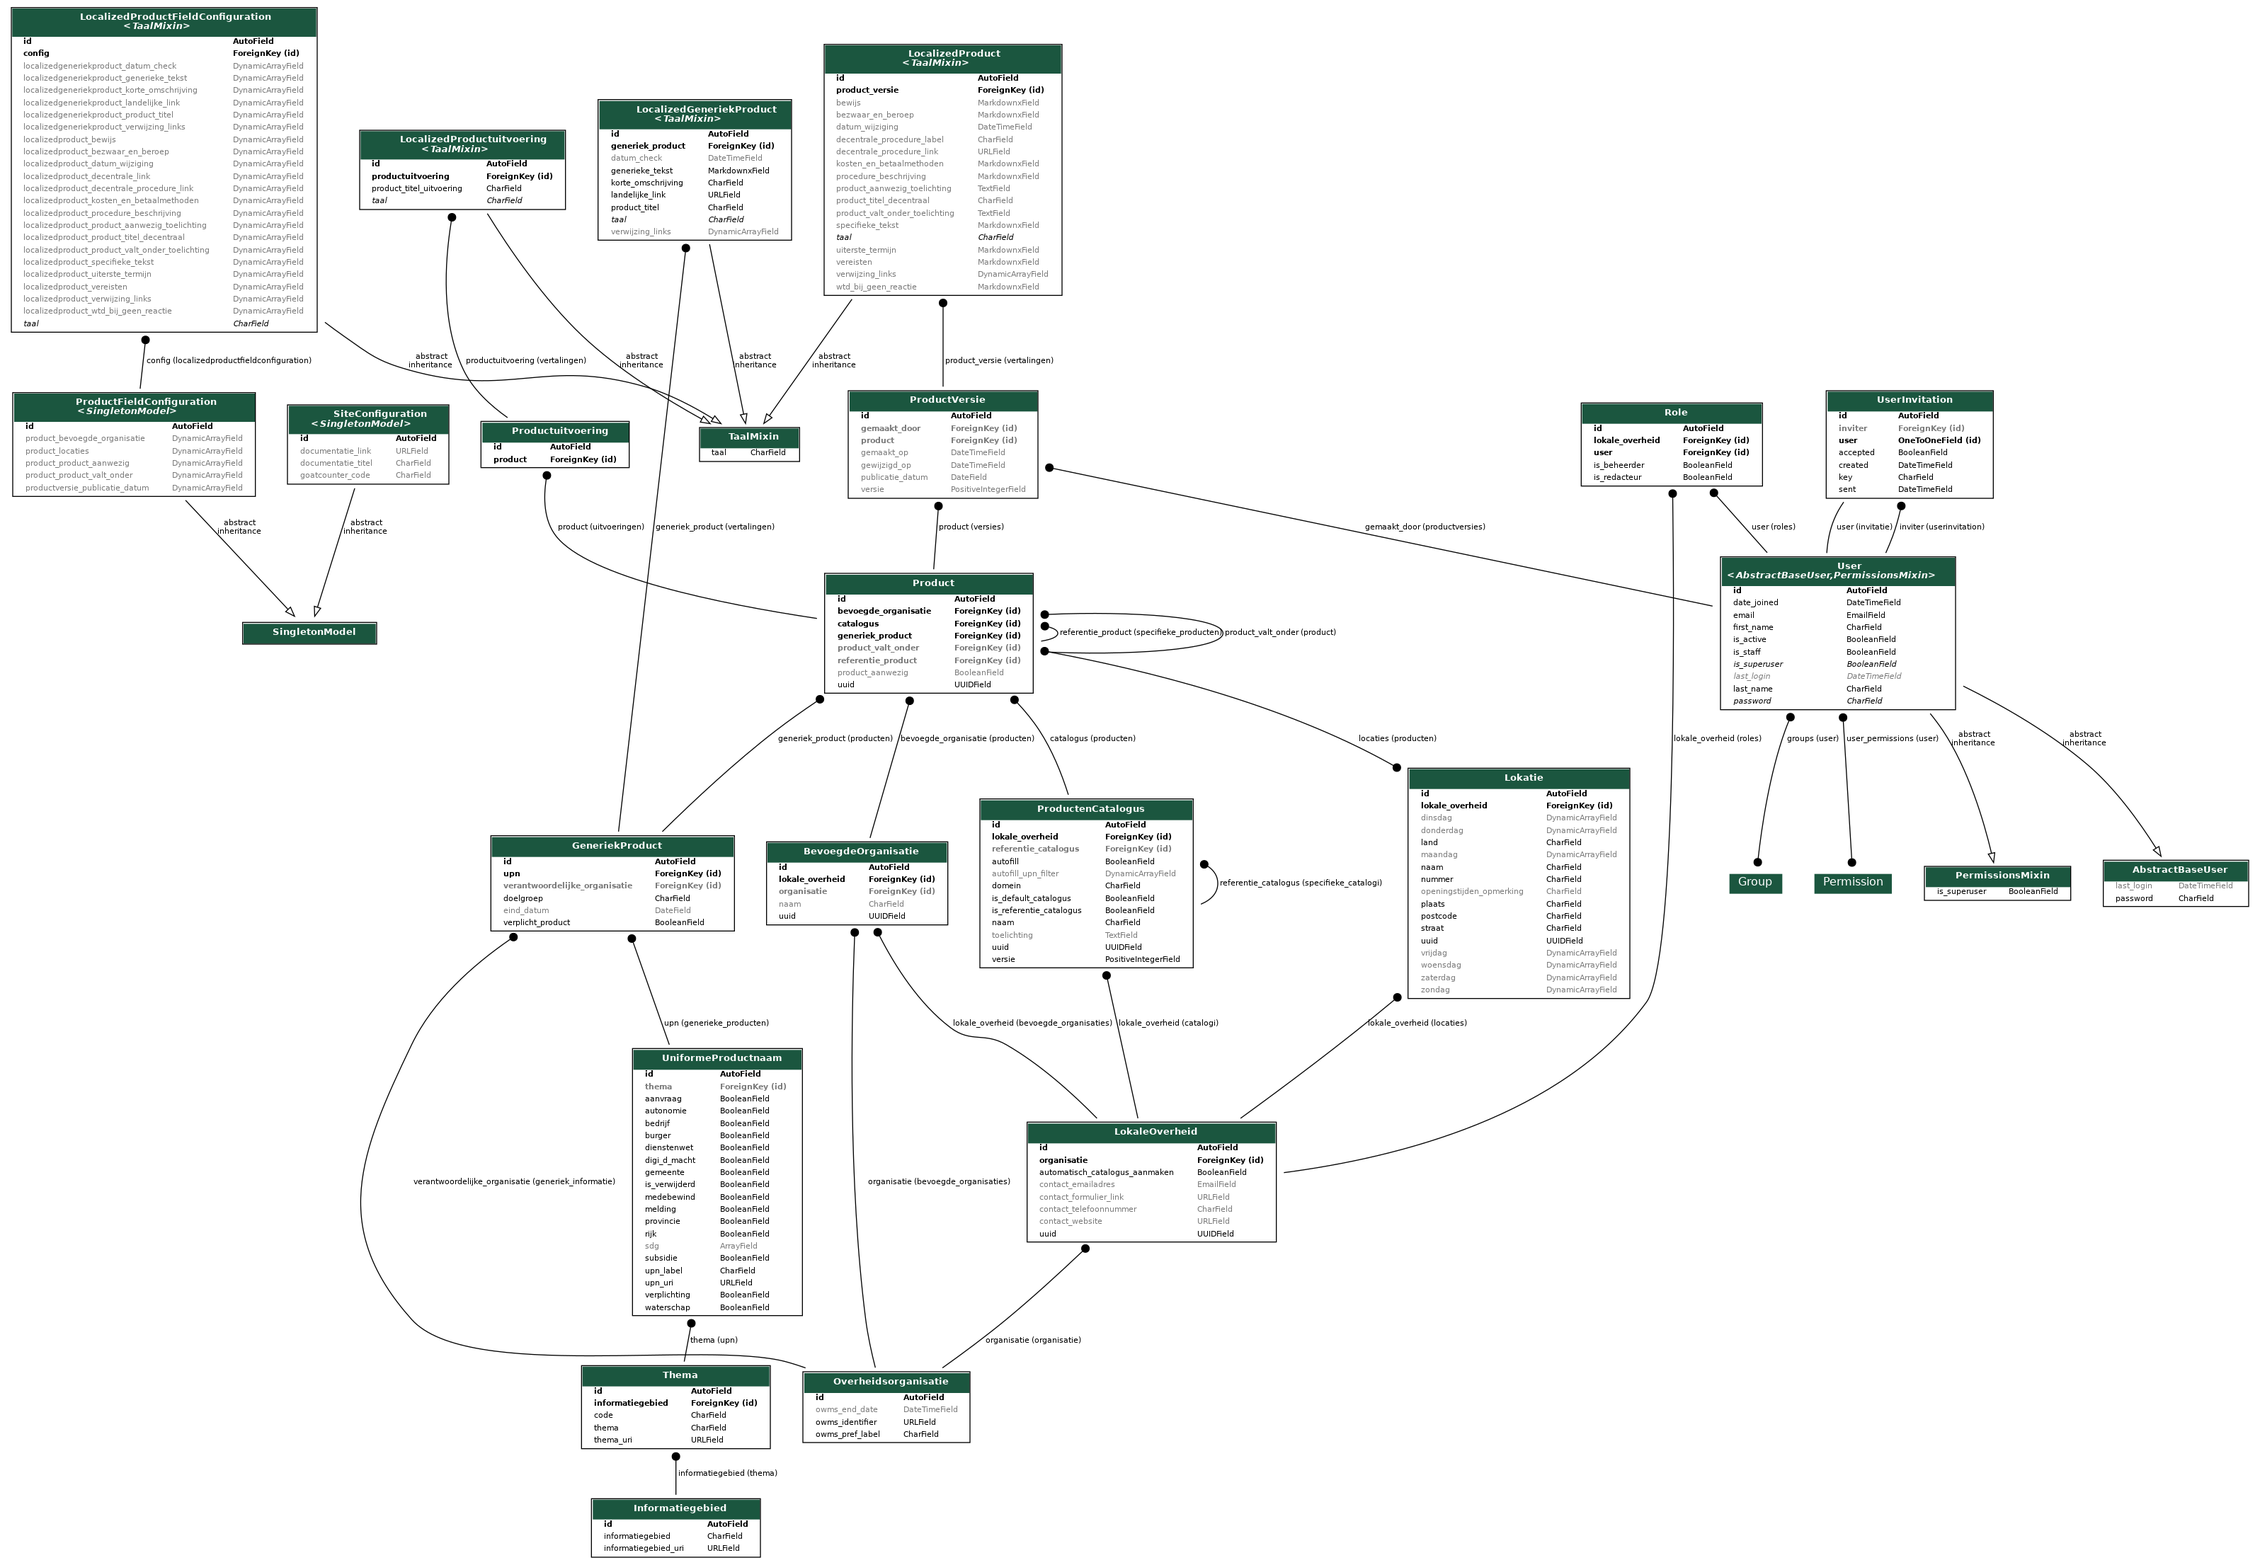
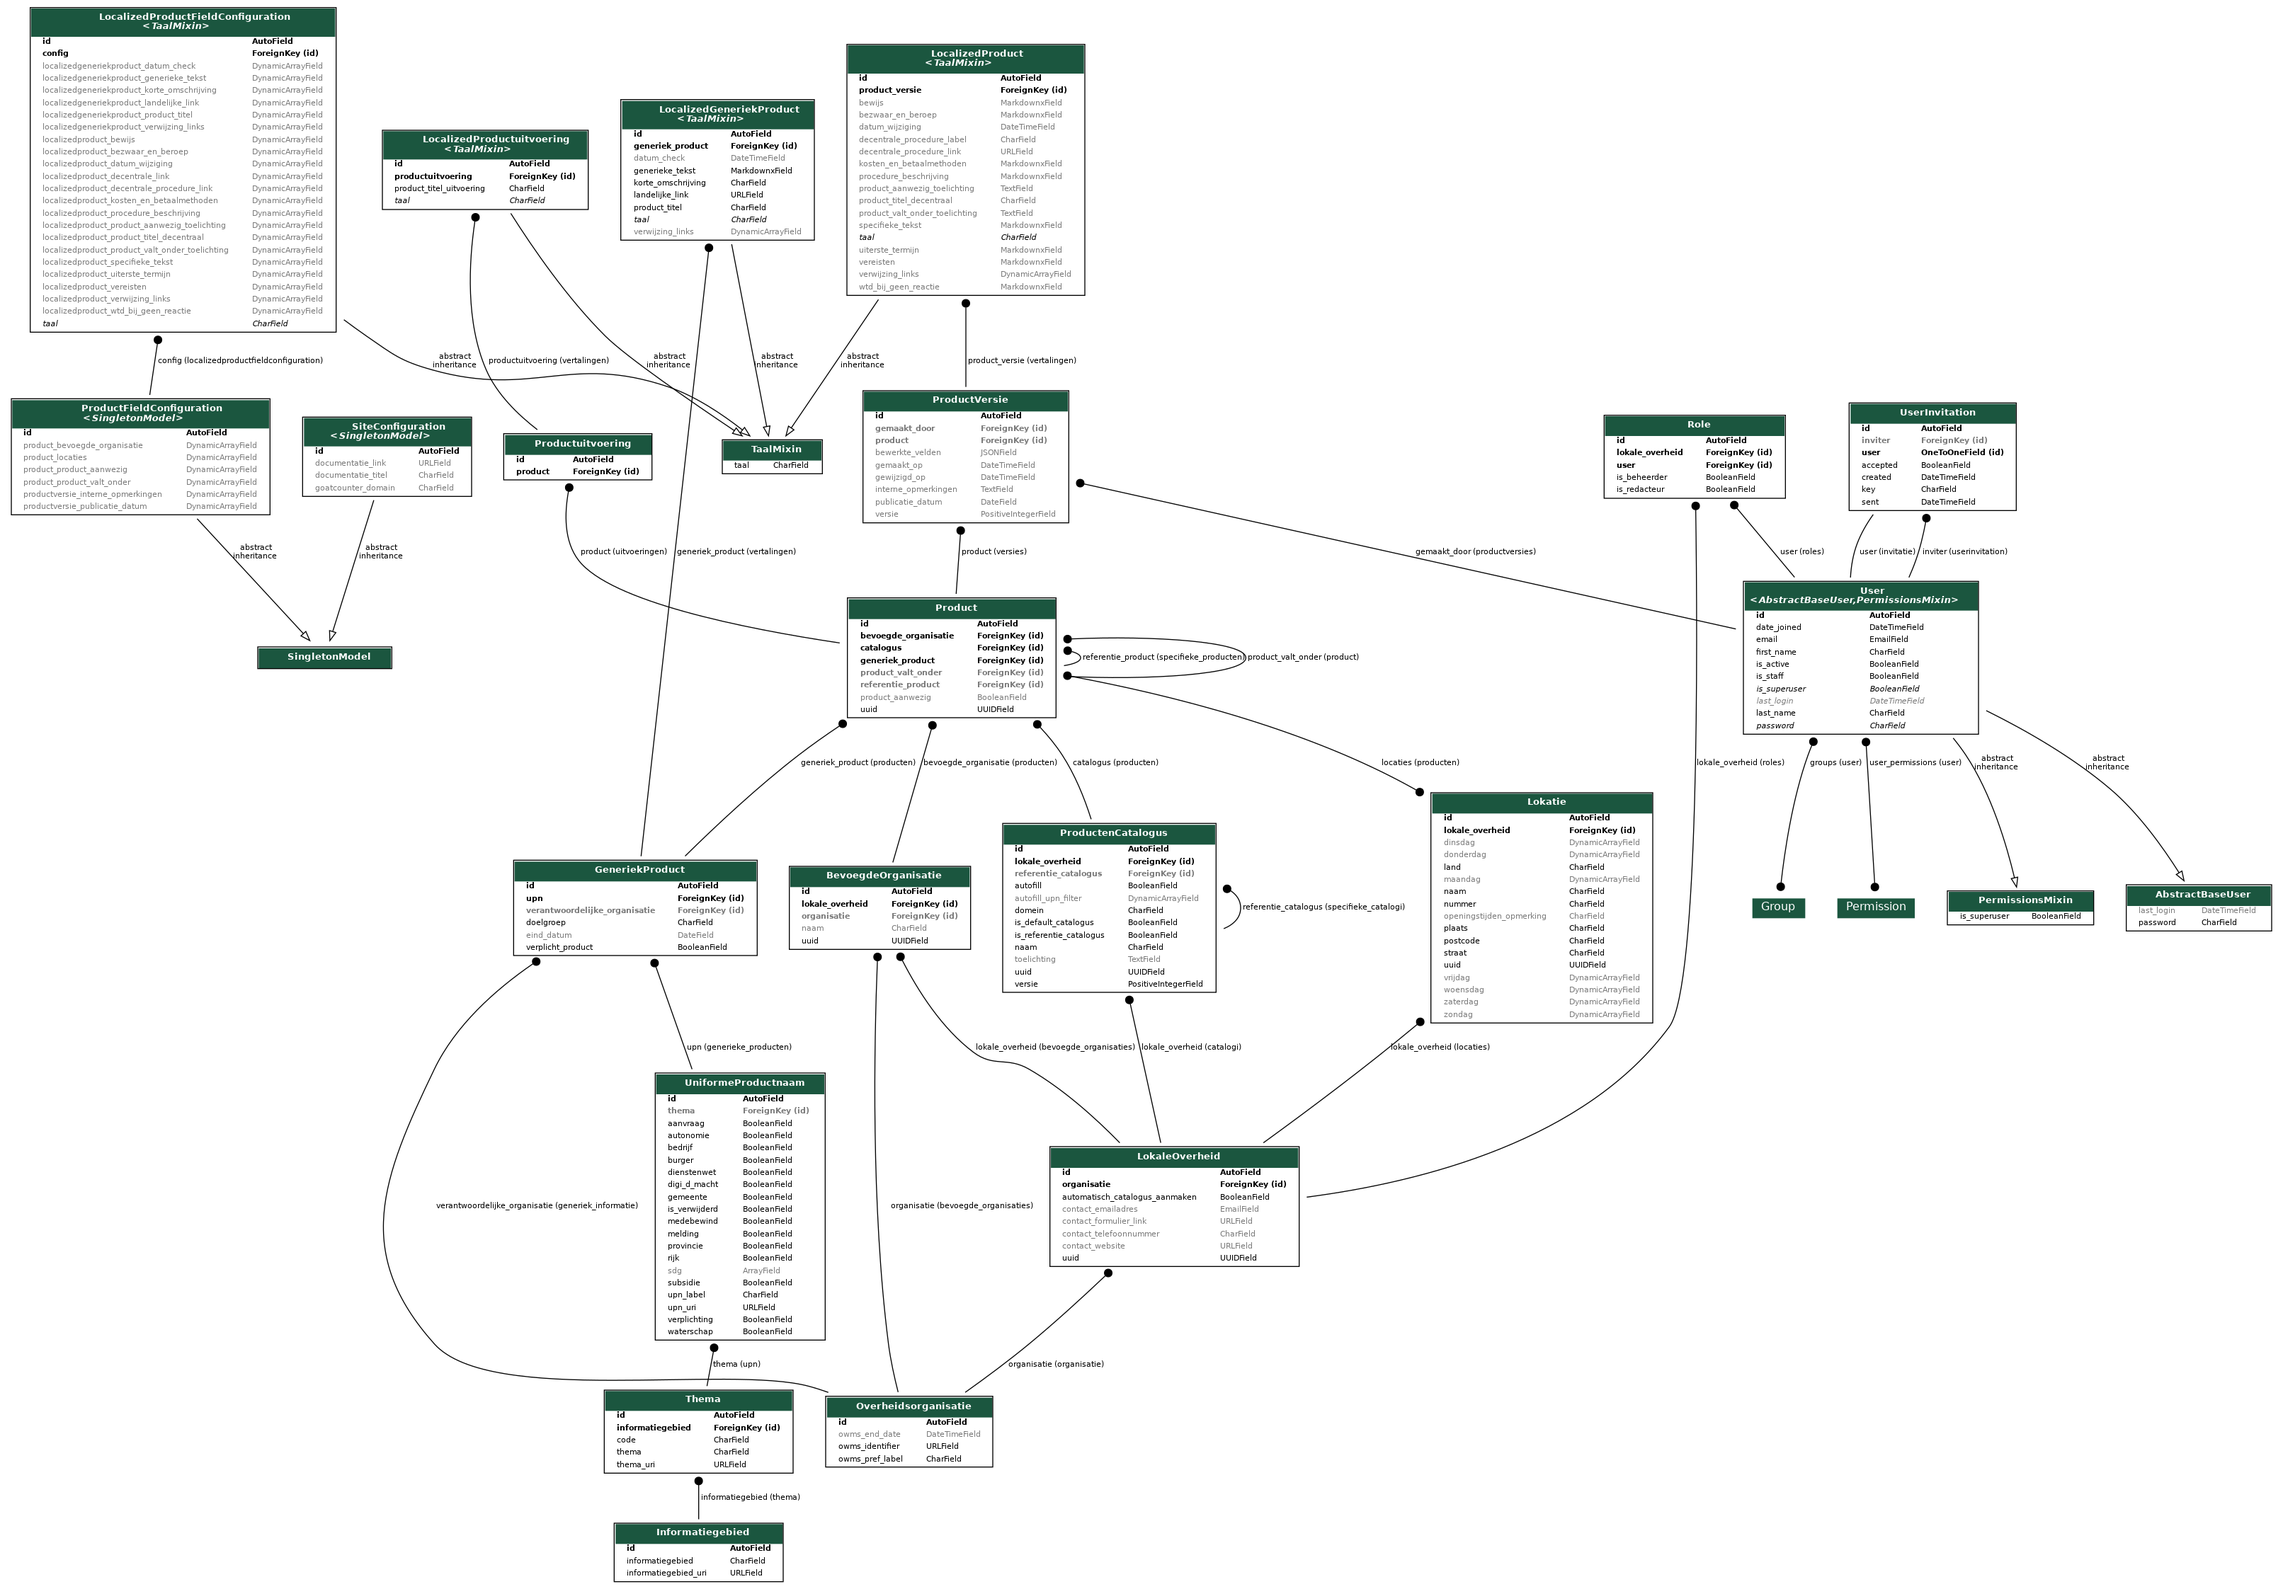
:ok_hand: Update goatcounter — [#750]

diff --git a/src/sdg/templates/core/_siteconfig.html b/src/sdg/templates/core/_siteconfig.html
@@ -1,4 +1,4 @@
-{% if siteconfig.goatcounter_code %}
-    <script data-goatcounter="https://{{ siteconfig.goatcounter_code }}.goatcounter.com/count"
-            async src="//gc.zgo.at/count.js"></script>
+{% if siteconfig.goatcounter_domain %}
+    <script data-goatcounter="https://{{ siteconfig.goatcounter_domain }}/count"
+            async src="//{{ siteconfig.goatcounter_domain }}/count.js"></script>
 {% endif %}

diff --git a/src/sdg/core/migrations/0038_siteconfiguration.py b/src/sdg/core/migrations/0038_siteconfiguration.py
@@ -1,12 +1,13 @@
-# Generated by Django 3.2.13 on 2022-10-05 11:03
+# Generated by Django 3.2.13 on 2022-10-19 16:39
 
 from django.db import migrations, models
+import sdg.core.models.validators
 
 
 class Migration(migrations.Migration):
 
     dependencies = [
-        ("core", "0036_merge_20220831_1608"),
+        ("core", "0037_productfieldconfiguration_productversie_interne_opmerkingen"),
     ]
 
     operations = [
@@ -40,12 +41,13 @@ class Migration(migrations.Migration):
                     ),
                 ),
                 (
-                    "goatcounter_code",
+                    "goatcounter_domain",
                     models.CharField(
                         blank=True,
-                        help_text="De code geleverd door goatcounter, d.w.z. https://[my-code].goatcounter.com. Zorg ervoor dat GoatCounter is toegestaan in het Content-Security-Policy als u het gebruikt.",
+                        help_text="Het domein waar goatcounter wordt gehost, bijvoorbeeld: example.com. Zorg ervoor dat het is toegestaan in het Content Security Policy als u het gebruikt.",
                         max_length=255,
-                        verbose_name="GoatCounter code",
+                        validators=[sdg.core.models.validators.DomainValidator()],
+                        verbose_name="GoatCounter domain",
                     ),
                 ),
             ],

diff --git a/src/sdg/core/models/config.py b/src/sdg/core/models/config.py
@@ -8,6 +8,7 @@ from solo.models import SingletonModel
 
 from sdg.core.db.fields import DynamicArrayField
 from sdg.core.forms import LabeledTooltipWidget
+from sdg.core.models.validators import DomainValidator
 
 LabeledTooltipField = partial(
     DynamicArrayField,
@@ -70,13 +71,16 @@ class SiteConfiguration(SingletonModel):
         blank=True,
     )
 
-    goatcounter_code = models.CharField(
-        verbose_name=_("GoatCounter code"),
+    goatcounter_domain = models.CharField(
+        verbose_name=_("GoatCounter domain"),
         help_text=_(
-            "De code geleverd door goatcounter, d.w.z. https://[my-code].goatcounter.com. Zorg ervoor dat GoatCounter is toegestaan in het Content-Security-Policy als u het gebruikt."
+            "Het domein waar goatcounter wordt gehost, bijvoorbeeld: example.com. Zorg ervoor dat het is toegestaan in het Content Security Policy als u het gebruikt."
         ),
         max_length=255,
         blank=True,
+        validators=[
+            DomainValidator(),
+        ],
     )
 
     def __str__(self):

diff --git a/src/sdg/core/tests/test_config.py b/src/sdg/core/tests/test_config.py
@@ -31,11 +31,11 @@ class SiteConfigurationTests(WebTest):
         self.assertNotIn("data-goatcounter", response.text)
 
         siteconfig = SiteConfiguration.get_solo()
-        siteconfig.goatcounter_code = "TEST"
+        siteconfig.goatcounter_domain = "example.com"
         siteconfig.save()
 
         response = self.app.get("/")
         self.assertInHTML(
-            '<script data-goatcounter="https://TEST.goatcounter.com/count" async src="//gc.zgo.at/count.js"></script>',
+            '<script data-goatcounter="https://example.com/count" async src="//example.com/count.js"></script>',
             response.text,
         )

diff --git a/src/sdg/accounts/migrations/0011_alter_user_options.py b/src/sdg/accounts/migrations/0011_alter_user_options.py
@@ -1,0 +1,21 @@
+# Generated by Django 3.2.13 on 2022-10-19 16:39
+
+from django.db import migrations
+
+
+class Migration(migrations.Migration):
+
+    dependencies = [
+        ("accounts", "0010_auto_20220122_1516"),
+    ]
+
+    operations = [
+        migrations.AlterModelOptions(
+            name="user",
+            options={
+                "ordering": ("first_name", "last_name"),
+                "verbose_name": "gebruiker",
+                "verbose_name_plural": "gebruikers",
+            },
+        ),
+    ]

diff --git a/src/sdg/core/models/validators.py b/src/sdg/core/models/validators.py
@@ -4,6 +4,12 @@ from django.core.exceptions import ValidationError
 from django.core.validators import RegexValidator, URLValidator, _lazy_re_compile
 from django.utils.translation import gettext_lazy as _
 
+
+class DomainValidator(URLValidator):
+    def __call__(self, value):
+        return super().__call__(f"https://{value}")
+
+
 uppercase_validator = RegexValidator(
     _lazy_re_compile(r"^[A-Z]*$"),
     message=_("Voer alleen hoofdletters in."),

diff --git a/src/sdg/core/admin/config.py b/src/sdg/core/admin/config.py
@@ -102,7 +102,7 @@ class SiteConfigurationAdmin(SingletonModelAdmin):
             {
                 "classes": ("collapse",),
                 "fields": [
-                    "goatcounter_code",
+                    "goatcounter_domain",
                 ],
             },
         ),
